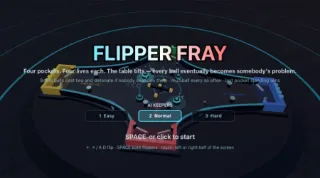
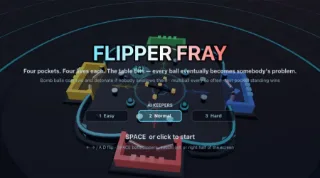
fix(docs): make the Flipper Fray table a circle so the four quarters match
Equal arc spacing gave equal gaps but not an equal table: on a 325×174 mouth
ellipse the top and bottom pockets sat 174 px from the centre and the side
ones 325 px, so one keeper defended a short lane and the next a long corridor,
and the bay midpoints disagreed with the wall tangents, which left the
slingshot triangles hanging at odd angles inside the ring.

The mouth ring is now a circle of radius 180 with the bays bulging outward at
1.28 × the radius, so the four quarters are congruent and every slingshot sits
flush against its wall. The table is bounded by the viewport height at ~474 px
across; the ~210 px margins left and right become the HUD gutters, two keeper
cards to a side. Bumper ring, lane posts and both 3D cameras are re-fitted to
the smaller table, and the tilt starts on a random heading so the opening
minute favours nobody.

Measured over 20 all-AI matches: approaches 856/908/928/943, drains
75/67/70/64, save rates inside one point of each other, every match ending on
eliminations at ~125 s.

diff --git a/docs/demos/flipper-fray.js b/docs/demos/flipper-fray.js
@@ -44,9 +44,14 @@ const CY = VIEW_H / 2;
 // flat ends — which is what six evenly-stepped pockets did here. With four
 // the arc split lands on the axes and every gap is identical.
 const N_PLAYERS = 4;
-const RX = 325;                 // pocket mouth ellipse
-const RY = 174;
-const MID_K = 0.72;             // how far the ring dips inward between pockets
+// The mouth ring is a CIRCLE, not a wide ellipse. Equal arc spacing gives
+// equal gaps, but on an ellipse the pockets still sit at different distances
+// from the centre and the table reads as stretched — one player defending a
+// long corridor, the next a short one. A circle makes the four quarters
+// identical, at the price of the side margins, which the HUD takes over.
+const RX = 180;                 // pocket mouth ring (RX === RY by design)
+const RY = 180;
+const MID_K = 1.28;             // bays bulge OUTWARD between the pockets
 const RING_SEGS = 12;           // straight segments per curved ring wall
 const PW = 120;                 // pocket mouth width
 const PD = 52;                  // pocket depth behind the flippers
@@ -64,9 +69,9 @@ const MAX_SPEED = 740;
 // same pressure over a lap, whatever its distance from the centre. A static
 // outward field cannot do that on a viewport this wide — the near pockets
 // (top and bottom) saw 40 % more traffic than the far ones.
-const TILT_ACC = 40;            // px/s² toward the low side
+const TILT_ACC = 26;            // px/s² toward the low side
 const TILT_PERIOD = 15 * 60;    // frames per lap
-const OUT_ACC = 13;             // px/s² outward, so the centre never pools
+const OUT_ACC = 22;             // px/s² outward, so the centre never pools
 const DAMP = 0.26;              // linear damping, 1/s
 const BUMP_KICK = 185;
 const SLING_KICK = 155;
@@ -328,7 +333,7 @@ function buildTable(space) {
   const bumperMat = new Material(1.25, 0, 0, 1, 0.001);
   for (let i = 0; i < N_PLAYERS; i++) {
     const a = _midAngles[i];
-    const x = CX + Math.cos(a) * RX * 0.30, y = CY + Math.sin(a) * RY * 0.42;
+    const x = CX + Math.cos(a) * RX * 0.54, y = CY + Math.sin(a) * RY * 0.54;
     const b = new Body(BodyType.STATIC, new Vec2(x, y));
     b.shapes.add(new Circle(BUMPER_R, undefined, bumperMat));
     b.shapes.at(0).cbTypes.add(_cbBumper);
@@ -347,7 +352,7 @@ function buildTable(space) {
   for (let i = 0; i < N_PLAYERS; i++) {
     const f = frames[i];
     for (const lv of [-36, 36]) {
-      const p = toWorld(f, 92, lv);
+      const p = toWorld(f, 62, lv);
       const b = new Body(BodyType.STATIC, new Vec2(p.x, p.y));
       b.shapes.add(new Circle(7, undefined, postMat));
       b.userData._color = { fill: "rgba(210,220,235,0.22)", stroke: "#c9d6e2" };
@@ -785,8 +790,10 @@ function resetMatch() {
     for (const fl of pl.flippers) { fl.pressed = false; fl.hold = 0; fl.cooldown = 0; }
   }
   _clock = 0;
-  _tilt = Math.PI / 2;
-  _tiltX = 0; _tiltY = 1;
+  // Random starting heading: a fixed one biases the opening minute toward
+  // whichever pocket the slope starts under.
+  _tilt = rnd() * Math.PI * 2;
+  _tiltX = Math.cos(_tilt); _tiltY = Math.sin(_tilt);
   _nextBombAt = BOMB_EVERY;
   _multiballIdx = 0;
   _result = null;
@@ -897,8 +904,10 @@ const HUD_FONT = "'Segoe UI', system-ui, sans-serif";
 const CARD_W = 140, CARD_H = 40;
 // Tuned by eye against the flat table: clear of the pockets, the clock and
 // the renderer buttons the page draws over the canvas' top right corner.
+// The circular table leaves ~210 px of margin on each side; that is where the
+// keeper cards go, two to a side, with the clock in the top-left corner.
 const CARD_SLOTS_2D = [
-  [640, 462], [82, 380], [304, 40], [818, 380],
+  [92, 452], [92, 250], [808, 120], [808, 250],
 ];
 const DIFF_BTNS = [0, 1, 2].map((i) => ({ i, x: CX - 150 + i * 150, y: 326, w: 120, h: 30 }));
 
@@ -936,6 +945,8 @@ function roundRect(ctx, x, y, w, h, r) {
 const CARD_SLOTS_3D = [
   [640, 462], [80, 330], [310, 40], [820, 330],
 ];
+// Tilt chevrons sit on the ring between the launcher and the bumpers.
+const CUE_R0 = 58;
 function cardAnchor(pl) {
   const s = (_mode3d ? CARD_SLOTS_3D : CARD_SLOTS_2D)[pl.id];
   return { x: s[0], y: s[1] };
@@ -1033,7 +1044,7 @@ function drawTiltCue(ctx) {
   ctx.lineCap = "round";
   ctx.lineJoin = "round";
   for (let i = 0; i < 3; i++) {
-    const d = 74 + i * 16;
+    const d = CUE_R0 + i * 15;
     const a = toScreen(CX + _tiltX * (d + 11), CY + _tiltY * (d + 11), 2);
     const b = toScreen(CX + _tiltX * d + px * 10, CY + _tiltY * d + py * 10, 2);
     const c = toScreen(CX + _tiltX * d - px * 10, CY + _tiltY * d - py * 10, 2);
@@ -1797,7 +1808,7 @@ function makeTableTexture() {
   c.shadowBlur = 0;
   c.strokeStyle = "rgba(92,230,255,0.18)";
   c.lineWidth = 1.5;
-  c.beginPath(); c.ellipse(CX, CY, RX * 0.30, RY * 0.42, 0, 0, Math.PI * 2); c.stroke();
+  c.beginPath(); c.ellipse(CX, CY, RX * 0.54, RY * 0.54, 0, 0, Math.PI * 2); c.stroke();
   const tex = new T.CanvasTexture(cv);
   tex.colorSpace = T.SRGBColorSpace;
   tex.anisotropy = 4;
@@ -1910,13 +1921,13 @@ function placeCamera3d(cam) {
     // A slow sway around the player's side rather than a full orbit, so the
     // whole table is in frame at every moment (the poster is shot here).
     const a = -Math.PI / 2 + Math.sin(_frame * 0.004) * 0.17;
-    ex = CX + Math.cos(a) * 540;
-    ey = -CY + Math.sin(a) * 540;
-    ez = 480 + Math.sin(_frame * 0.0028) * 25;
+    ex = CX + Math.cos(a) * 440;
+    ey = -CY + Math.sin(a) * 440;
+    ez = 400 + Math.sin(_frame * 0.0028) * 22;
     tx = CX; ty = -CY; tz = 0;
   } else {
-    ex = CX; ey = -(CY + 452); ez = 424;
-    tx = CX; ty = -(CY - 24); tz = 0;
+    ex = CX; ey = -(CY + 408); ez = 392;
+    tx = CX; ty = -(CY + 4); tz = 0;
   }
   if (!_camPos) {
     _camPos = new T.Vector3(ex, ey, ez);

diff --git a/docs/guides/demo-designs.md b/docs/guides/demo-designs.md
@@ -177,11 +177,11 @@ validated by real play.
 
 ### Premise
 
-A four-player pinball brawl on one round table. Four pockets sit around a
-rounded-square ring, a pair of flippers guards each of them, and the table
-tilts: the low side walks around the table once every fifteen seconds, so
-every ball is eventually somebody's problem and every pocket takes the same
-pressure. A ball that gets past your flippers costs a life. Four lives each;
+A four-player pinball brawl on one round table. Four pockets sit at the
+compass points of a **circular** mouth ring, a pair of flippers guards each of
+them, and the table tilts: the low side walks around it once every fifteen
+seconds, so every ball is eventually somebody's problem and every pocket takes
+the same pressure. A ball that gets past your flippers costs a life. Four lives each;
 the last pocket standing wins, or the most lives (then goals) when the
 three-minute clock runs out. You hold the bottom pocket, three AI keepers hold
 the rest. When a keeper is out their mouth is sealed with a kicker bar, so
@@ -205,27 +205,41 @@ Once you are eliminated the rest of the match plays out in a ×4 time-lapse
 
 | Element             | Numbers                                                                                     |
 | ------------------- | ------------------------------------------------------------------------------------------- |
-| Mouth ellipse       | rx 325, ry 174 around (450, 250); the player's pocket at the bottom                          |
-| Pocket placement    | Equal **arc length**, which for four pockets lands exactly on the axes                       |
-| Ring walls          | Quadratic Bézier from pocket to pocket through a bay at 0.72 of the arc-midpoint radius, 12 straight segments each |
+| Mouth ring          | Radius 180 around (450, 250); the player's pocket at the bottom                              |
+| Pocket placement    | Equal **arc length**, which on a circle is the four compass points                          |
+| Ring walls          | Quadratic Bézier from pocket to pocket through a bay at 1.28 × the radius (bulging **outward**), 12 straight segments each |
 | Pocket              | 120 wide, 52 deep; flipper pivots 6 in from the side walls                                 |
 | Flipper             | 44 long, rest −0.40 rad (drooping into the pocket), raised +0.66 rad, 20 rad/s; rest gap ≈ 25 px for an 11 px ball |
 | Slingshots          | Triangular kickers at each bay (base 60, bulge 15), +155 px/s along the inward normal      |
-| Bumpers             | One per bay, r 12, on the centre→bay line at (0.30·rx, 0.42·ry), +185 px/s away from the centre |
-| Lane posts          | Two per lane, r 7, 92 px out from the mouth and ±36 px off its axis                         |
+| Bumpers             | One per bay, r 12, on the centre→bay line at 0.54 × the radius, +185 px/s away from the centre |
+| Lane posts          | Two per lane, r 7, 62 px out from the mouth and ±36 px off its axis                         |
 | Cross               | Kinematic, arms 42, 0.85 rad/s, reverses every 20 s; new balls spawn between its arms so it launches them |
-| Tilt / damping      | 40 px/s² toward the low side (one lap per 15 s) + 13 px/s² outward, 0.26 /s damping, 740 px/s cap |
+| Tilt / damping      | 26 px/s² toward the low side (one lap per 15 s, random starting heading) + 22 px/s² outward, 0.26 /s damping, 740 px/s cap |
 
-**Equal angle looks lopsided; a static slope is unfair.** The first cut put six
-pockets at 60° steps on the ellipse, and they bunched together at the flat
-ends. Placing them at equal arc length (a 3000-sample cumulative length table,
-built once in `computeAngles()`) fixed the look, and with four pockets the
-split lands on the axes so every gap is identical. That exposed a second
-problem: a fixed outward slope on a 900×500 viewport feeds the near pockets
-much harder than the far ones — the bottom pocket saw 720 approaches to the
-left pocket's 511, and won 8 matches in 10. A tilt whose low side rotates
-fixes it by construction: approaches and drains now sit within ±8 %, and the
-save rate is the same at all four pockets.
+**Equal gaps are not an equal table.** Three passes were needed here, and the
+first two only looked right on paper:
+
+1. Six pockets at 60° steps on a wide ellipse bunch together at the flat ends.
+   Equal **arc length** (a 3000-sample cumulative length table, built once in
+   `computeAngles()`) fixes the spacing; with four pockets the split lands on
+   the axes, so every gap is identical.
+2. Equal gaps on an *ellipse* still leave the pockets at different distances
+   from the centre — 174 px for top and bottom, 325 px for left and right — so
+   one keeper defends a short lane and the next a long corridor. It reads as a
+   stretched table, not a divided one, and a fixed outward slope then feeds the
+   near pockets far harder: the bottom pocket saw 720 approaches to the left
+   pocket's 511 and won 8 matches in 10. **The mouth ring has to be a circle.**
+   The table is then bounded by the 500 px viewport height, ~474 px across,
+   and the ~210 px margins left and right become the HUD gutters.
+3. The slope still favoured whichever pocket it pointed at, so it **rotates**:
+   one lap every 15 s from a random starting heading. Over 20 measured matches
+   the four pockets took 856 / 908 / 928 / 943 approaches and 75 / 67 / 70 / 64
+   drains, with save rates inside one percentage point of each other.
+
+The bays between the pockets bulge outward rather than dipping in, which is
+also what puts each slingshot flush against its wall — on the old ellipse the
+bay midpoint and the wall tangent disagreed and the triangles sat at odd
+angles inside the ring.
 
 ### Match schedule
 
@@ -260,9 +274,9 @@ ball against the pivot corner; when it drops, the ball rolls to the tip and
 falls through. Sweeping the reaction window with a no-miss keeper gave save
 rates of 93 % at 0.03 s, 89 % at 0.05, 86 % at 0.07 and 80 % at 0.10 s
 (never flipping at all: 76 %, and the balls pile up on the flippers). The
-difficulty table is built around that curve. On the four-pocket table an
-all-AI match runs about 140 s, saves ~94 % of approaches and usually ends
-with all three opponents out; roughly one match in five reaches the buzzer.
+difficulty table is built around that curve. On the circular four-pocket table an
+all-AI match runs about 125 s, saves ~92 % of approaches and ends with all
+three opponents out; no match in the last 20 reached the buzzer.
 
 ### Physics
 
@@ -292,7 +306,8 @@ with all three opponents out; roughly one match in five reaches the buzzer.
   the card's whole life, so a transparent clear let the 3D render ghost
   through the flat one. PixiJS draws its own body pass on an opaque stage.
 - The overlay (all modes) draws the clock with its tilt compass, the keeper
-  cards, three tilt chevrons on the table centre, bomb fuses, banners,
+  cards (in the side gutters in 2D, beside each pocket in 3D), three tilt
+  chevrons on the table centre, bomb fuses, banners,
   floaters and the title / result screens; in 2D it also draws bumper flashes,
   particles and the drain sink. The chevrons are the only explanation the
   player gets for the slope, so they run in every mode, projected through the
